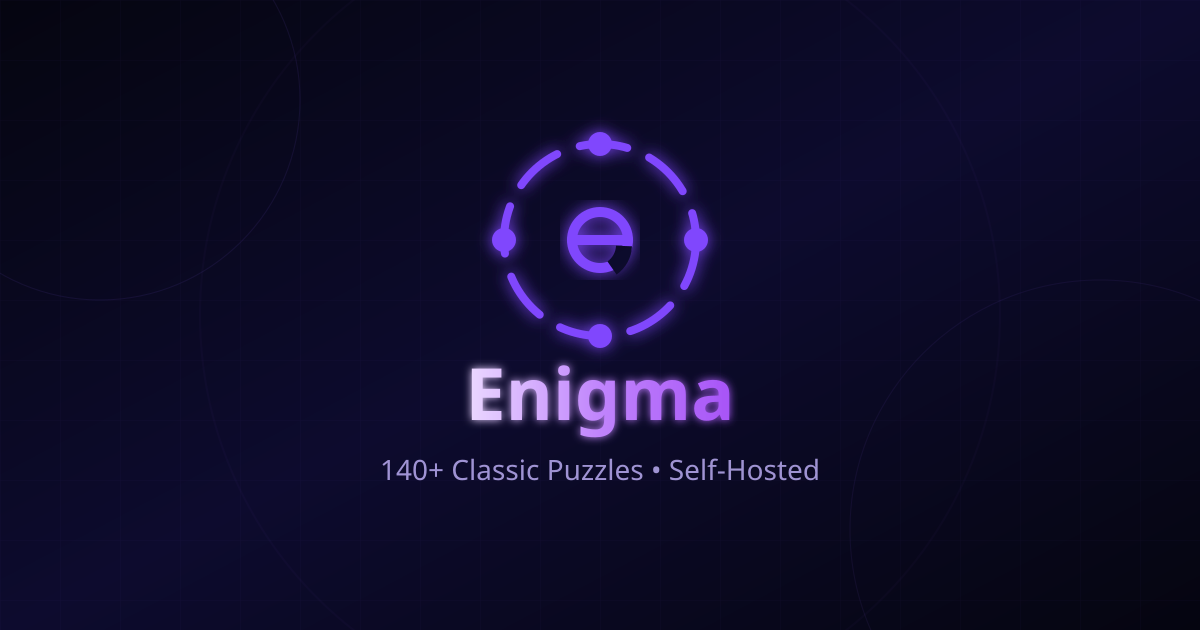
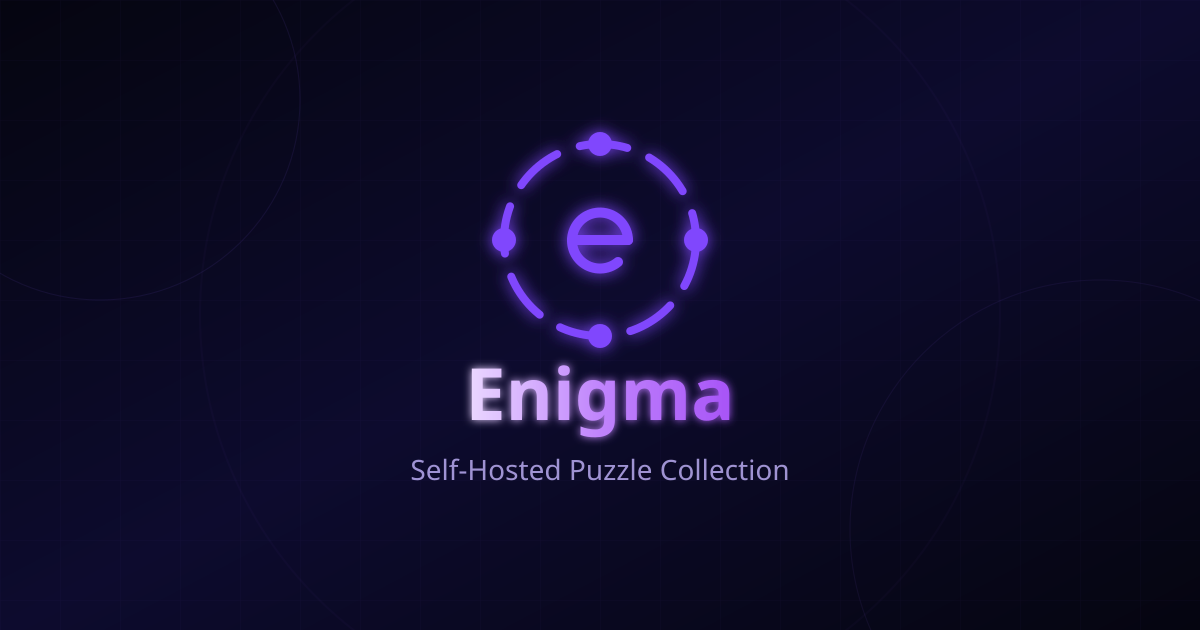
most langstrings done, OG social images

Changed region(s): [[0.3083, 0.7238, 0.6783, 0.7841], [0.4933, 0.3921, 0.555, 0.4524]]

diff --git a/src/pages/IframeGame/IframeGame.jsx b/src/pages/IframeGame/IframeGame.jsx
@@ -44,7 +44,7 @@ export default function IframeGame() {
         <div className={styles.errorContent}>
           <span className={styles.errorIcon}>🔍</span>
           <h2>Game not found</h2>
-          <p>This game may have been removed or the link is invalid.</p>
+          <p>{t('common.gameRemovedOrInvalid')}</p>
           <Link to="/" className={styles.homeLink}>
             ← Back to Home
           </Link>
@@ -60,7 +60,7 @@ export default function IframeGame() {
         <div className={styles.redirectContent}>
           <span className={styles.redirectIcon}>{game.icon}</span>
           <h2>Opening {game.title}</h2>
-          <p>Redirecting to external site...</p>
+          <p>{t('common.redirectingExternal')}</p>
           <div className={styles.spinner} />
           <Link to="/" className={styles.cancelRedirect}>
             Cancel and go home
@@ -109,15 +109,15 @@ export default function IframeGame() {
         {isLoading && (
           <div className={styles.loading}>
             <div className={styles.spinner} />
-            <p>Loading game...</p>
+            <p>{t('common.loadingGame')}</p>
           </div>
         )}
 
         {hasError && (
           <div className={styles.loadError}>
             <span className={styles.errorIcon}>⚠</span>
-            <h3>Failed to load game</h3>
-            <p>The game may have blocked embedding or the URL is invalid.</p>
+            <h3>{t('common.failedToLoadGame')}</h3>
+            <p>{t('common.gameBlockedOrInvalid')}</p>
             <a
               href={game.url}
               target="_blank"

diff --git a/src/pages/Crossword/Crossword.jsx b/src/pages/Crossword/Crossword.jsx
@@ -622,7 +622,7 @@ export default function Crossword() {
 
             {gameState === 'gaveUp' && (
               <div className={styles.gaveUpBanner}>
-                <div className={styles.gaveUpTitle}>Puzzle Revealed</div>
+                <div className={styles.gaveUpTitle}>{t('gameStatus.puzzleRevealed')}</div>
                 <div className={styles.gaveUpSubtitle}>
                   Time: {formatTime(timer)} • Missed {missedWords.length} word{missedWords.length !== 1 ? 's' : ''}
                 </div>
@@ -685,7 +685,7 @@ export default function Crossword() {
 
           <div className={styles.cluesSection}>
             <div className={styles.clueColumn}>
-              <h3 className={styles.clueHeader}>Across</h3>
+              <h3 className={styles.clueHeader}>{t('common.across')}</h3>
               <div className={styles.clueList}>
                 {puzzle.across.map(clue => {
                   const isActive = currentWord?.number === clue.number && direction === 'across';
@@ -704,7 +704,7 @@ export default function Crossword() {
             </div>
 
             <div className={styles.clueColumn}>
-              <h3 className={styles.clueHeader}>Down</h3>
+              <h3 className={styles.clueHeader}>{t('common.down')}</h3>
               <div className={styles.clueList}>
                 {puzzle.down.map(clue => {
                   const isActive = currentWord?.number === clue.number && direction === 'down';

diff --git a/src/pages/WordLadder/WordLadder.jsx b/src/pages/WordLadder/WordLadder.jsx
@@ -125,7 +125,7 @@ export default function WordLadder() {
   if (!puzzle) {
     return (
       <div className={styles.container}>
-        <div className={styles.loading}>Generating puzzle...</div>
+        <div className={styles.loading}>{t('common.generatingPuzzle')}</div>
       </div>
     );
   }
@@ -273,10 +273,10 @@ export default function WordLadder() {
           <div className={styles.tips}>
             <h3>{t('common.howToPlay')}</h3>
             <ul>
-              <li>Change exactly <strong>one letter</strong> at a time</li>
-              <li>Each intermediate word must be valid</li>
-              <li>Try to reach the goal in the fewest steps</li>
-              <li>You can undo moves to try different paths</li>
+              <li>{t('wordLadder.rule1')}</li>
+              <li>{t('wordLadder.rule2')}</li>
+              <li>{t('wordLadder.rule3')}</li>
+              <li>{t('wordLadder.rule4')}</li>
             </ul>
           </div>
 
@@ -284,7 +284,7 @@ export default function WordLadder() {
             <GiveUpButton
               onGiveUp={() => setShowSolution(true)}
               disabled={showSolution || gameWon}
-              buttonText="Show Solution"
+              buttonText={t('common.showSolution')}
             />
             <button className={styles.newGameBtn} onClick={initializePuzzle}>
               New Puzzle

diff --git a/index.html b/index.html
@@ -4,8 +4,21 @@
     <meta charset="UTF-8" />
     <link rel="icon" href="/branding/logo-simple-e.svg">
     <meta name="viewport" content="width=device-width, initial-scale=1.0" />
-    <meta name="description" content="A collection of classic word and number puzzles - Word Wheel, Word Ladder, Sudoku and more!" />
+    <meta name="description" content="Self-hosted puzzle collection with 140+ classic word, number, and logic puzzles." />
     <meta name="theme-color" content="#050510" />
+
+    <!-- Open Graph / Facebook -->
+    <meta property="og:type" content="website" />
+    <meta property="og:title" content="Enigma | Self-Hosted Puzzle Collection" />
+    <meta property="og:description" content="Self-hosted puzzle collection with 140+ classic word, number, and logic puzzles." />
+    <meta property="og:image" content="/branding/og-image.png" />
+
+    <!-- Twitter -->
+    <meta name="twitter:card" content="summary_large_image" />
+    <meta name="twitter:title" content="Enigma | Self-Hosted Puzzle Collection" />
+    <meta name="twitter:description" content="Self-hosted puzzle collection with 140+ classic word, number, and logic puzzles." />
+    <meta name="twitter:image" content="/branding/og-image.png" />
+
     <title>Enigma | Self-Hosted Games</title>
   </head>
   <body>

diff --git a/src/pages/KnightsTour/KnightsTour.jsx b/src/pages/KnightsTour/KnightsTour.jsx
@@ -234,7 +234,7 @@ export default function KnightsTour() {
           <div className={styles.stat}>
             <span className={styles.statIcon}>📊</span>
             <span className={styles.statValue}>{percentComplete}%</span>
-            <span className={styles.statLabel}>Complete</span>
+            <span className={styles.statLabel}>{t('common.complete')}</span>
           </div>
           <div className={styles.stat}>
             <span className={styles.statIcon}>🏆</span>
@@ -308,11 +308,11 @@ export default function KnightsTour() {
 
         {/* Tips */}
         <div className={styles.tips}>
-          <div className={styles.tipTitle}>💡 Tips</div>
+          <div className={styles.tipTitle}>💡 {t('common.tips')}</div>
           <ul className={styles.tipList}>
-            <li>The knight moves in an "L" shape: 2 squares in one direction, then 1 square perpendicular</li>
-            <li>Try to avoid corners early — they have fewer escape routes</li>
-            <li>Warnsdorff's rule: move to the square with the fewest onward moves</li>
+            <li>{t('knightsTour.tip1')}</li>
+            <li>{t('knightsTour.tip2')}</li>
+            <li>{t('knightsTour.tip3')}</li>
           </ul>
         </div>
       </div>

diff --git a/src/pages/NationalAnthemQuiz/NationalAnthemQuiz.jsx b/src/pages/NationalAnthemQuiz/NationalAnthemQuiz.jsx
@@ -396,11 +396,11 @@ export default function NationalAnthemQuiz() {
             {audioError ? (
               <div className={styles.audioError}>
                 <span>⚠ Audio unavailable</span>
-                <span className={styles.errorHint}>Try the next anthem</span>
+                <span className={styles.errorHint}>{t('common.tryNextAnthem')}</span>
               </div>
             ) : !audioLoaded ? (
               <div className={styles.audioLoading}>
-                <span>Loading anthem...</span>
+                <span>{t('common.loadingAnthem')}</span>
               </div>
             ) : (
               <div className={styles.audioControls}>
@@ -432,7 +432,7 @@ export default function NationalAnthemQuiz() {
 
           {showHint && selectedAnswer === null && (
             <div className={styles.hint}>
-              <span className={styles.hintLabel}>Region:</span> {getRegion(currentAnthem.isoCode)}
+              <span className={styles.hintLabel}>{t('common.region')}:</span> {getRegion(currentAnthem.isoCode)}
             </div>
           )}
 

diff --git a/src/pages/CountdownLetters/CountdownLetters.jsx b/src/pages/CountdownLetters/CountdownLetters.jsx
@@ -381,11 +381,11 @@ export default function CountdownLetters() {
             <div className={styles.rulesPanel}>
               <h4>{t('common.howToPlay')}</h4>
               <ul>
-                <li>Pick <strong>9 letters</strong> - vowels or consonants</li>
-                <li>You must have at least <strong>3 vowels</strong></li>
-                <li>You must have at least <strong>4 consonants</strong></li>
-                <li>You have <strong>30 seconds</strong> to find the longest word</li>
-                <li>Longer words = more points!</li>
+                <li>{t('countdownLetters.rule1')}</li>
+                <li>{t('countdownLetters.rule2')}</li>
+                <li>{t('countdownLetters.rule3')}</li>
+                <li>{t('countdownLetters.rule4')}</li>
+                <li>{t('countdownLetters.rule5')}</li>
                 <li>9-letter words score <strong>18 points</strong> (double!)</li>
               </ul>
             </div>

diff --git a/src/pages/ChessPuzzle/ChessPuzzle.jsx b/src/pages/ChessPuzzle/ChessPuzzle.jsx
@@ -424,7 +424,7 @@ export default function ChessPuzzle() {
           title="Chess Puzzles"
           instructions="Find the best move to win material or deliver checkmate!"
         />
-        <div className={styles.gameArea}>Loading puzzles…</div>
+        <div className={styles.gameArea}>{t('common.loadingPuzzles')}</div>
       </div>
     );
   }
@@ -662,7 +662,7 @@ export default function ChessPuzzle() {
         <div className={styles.puzzleInfo}>
           {puzzle && (
             <div className={styles.puzzleIdSection}>
-              <span className={styles.puzzleIdLabel}>Puzzle ID:</span>
+              <span className={styles.puzzleIdLabel}>{t('common.puzzleId')}:</span>
               <code
                 className={styles.puzzleId}
                 onClick={() => {

diff --git a/src/pages/NQueens/NQueens.jsx b/src/pages/NQueens/NQueens.jsx
@@ -339,9 +339,9 @@ export default function NQueens() {
         <div className={styles.rules}>
           <div className={styles.rulesTitle}>📜 Rules</div>
           <ul className={styles.rulesList}>
-            <li>Queens attack horizontally, vertically, and diagonally</li>
-            <li>No two queens can be on the same row, column, or diagonal</li>
-            <li>Click to place a queen, click again to remove</li>
+            <li>{t('nQueens.rule1')}</li>
+            <li>{t('nQueens.rule2')}</li>
+            <li>{t('nQueens.rule3')}</li>
             <li><span className={styles.preplacedIndicator}>♛</span> Pre-placed queens cannot be moved</li>
           </ul>
         </div>

diff --git a/src/pages/ClassicalMusicQuiz/ClassicalMusicQuiz.jsx b/src/pages/ClassicalMusicQuiz/ClassicalMusicQuiz.jsx
@@ -339,11 +339,11 @@ export default function ClassicalMusicQuiz() {
             {audioError ? (
               <div className={styles.audioError}>
                 <span>⚠ Audio unavailable</span>
-                <span className={styles.errorHint}>Try the next piece</span>
+                <span className={styles.errorHint}>{t('common.tryNextPiece')}</span>
               </div>
             ) : !audioLoaded ? (
               <div className={styles.audioLoading}>
-                <span>Loading audio...</span>
+                <span>{t('common.loadingAudio')}</span>
               </div>
             ) : (
               <div className={styles.audioControls}>

diff --git a/src/pages/Conundrum/Conundrum.jsx b/src/pages/Conundrum/Conundrum.jsx
@@ -269,10 +269,10 @@ export default function Conundrum() {
         <div className={styles.howToPlay}>
           <h4>{t('common.howToPlay')}</h4>
           <ul>
-            <li>Press "Start" to reveal the scrambled letters</li>
-            <li>Rearrange all 9 letters to form a valid word</li>
-            <li>Type your answer and submit before time runs out</li>
-            <li>Use "Shuffle" to rearrange the display</li>
+            <li>{t('conundrum.rule1')}</li>
+            <li>{t('conundrum.rule2')}</li>
+            <li>{t('conundrum.rule3')}</li>
+            <li>{t('conundrum.rule4')}</li>
           </ul>
         </div>
       </div>

diff --git a/src/pages/Einstein/Einstein.jsx b/src/pages/Einstein/Einstein.jsx
@@ -291,7 +291,7 @@ export default function Einstein() {
         </div>
 
         <div className={styles.settingGroup}>
-          <label>Difficulty:</label>
+          <label>{t('common.difficulty')}:</label>
           <div className={styles.buttonGroup}>
             {Object.values(DIFFICULTIES).map(diff => (
               <button
@@ -306,7 +306,7 @@ export default function Einstein() {
         </div>
 
         <div className={styles.settingGroup}>
-          <label>Theme:</label>
+          <label>{t('common.theme')}:</label>
           <select
             className={styles.themeSelect}
             value={themeId || theme.id}
